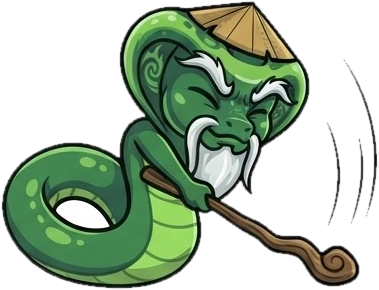
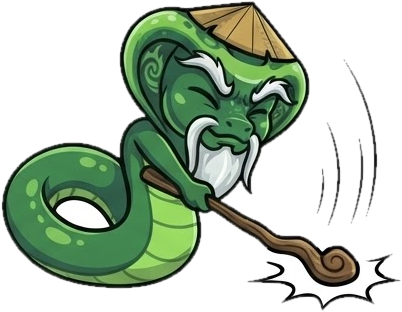
Stick scene: bring back the impact star on the wise dragon's hit pose (cutter kept it as 'text'), hold the hit a bit longer, shorter pause after the raise line

diff --git a/app/src/main/java/eu/kanade/tachiyomi/ui/reader/RReaderCobraView.kt b/app/src/main/java/eu/kanade/tachiyomi/ui/reader/RReaderCobraView.kt
@@ -513,8 +513,8 @@ class RReaderCobraView(
 
         private val SCENE = listOf(
             Step(R.drawable.r_stick_wise_walk, "إنت تاني؟! تلات مرات في دقيقة! مفيش أدب!", 900),
-            Step(R.drawable.r_stick_wise_raise, "نصيحة من الحاج: اللي ما يسمعش الكلام... يتضرب!", 600, 1),
-            Step(R.drawable.r_stick_wise_hit, "", 450, 2),
+            Step(R.drawable.r_stick_wise_raise, "نصيحة من الحاج: اللي ما يسمعش الكلام... يتضرب!", 300, 1),
+            Step(R.drawable.r_stick_wise_hit, "", 850, 2),
             Step(R.drawable.r_stick_small_hit, "آآآي! دماغي!", 900),
             Step(R.drawable.r_stick_wise_walk_with_small, "يلا معايا. ونصيحة تانية: اشرب مية.", 700),
         )

diff --git a/branding/tools/make_small_dragon_fullbody.py b/branding/tools/make_small_dragon_fullbody.py
@@ -5,13 +5,29 @@ from PIL import Image, ImageFilter
 import numpy as np, colorsys
 from scipy import ndimage as ndi
 
-def segment(path, merge_dil=12, min_area=20000):
+def mx_dark(a):
+    return a.max(axis=2) < 90
+
+def _box(shape, k):
+    m = np.zeros(shape[:2], bool); m[k[1]:k[3], k[0]:k[2]] = True; return m
+
+def segment(path, merge_dil=12, min_area=20000, keep=()):
+    # keep: boxes (x0,y0,x1,y1) in sheet pixels whose components are artwork, never labels (e.g. the impact star)
     im=Image.open(path).convert('RGB')
     a=np.array(im).astype(int)
     white=(a[:,:,0]>225)&(a[:,:,1]>225)&(a[:,:,2]>225)
     lab,_=ndi.label(white)
     border=set(np.unique(np.concatenate([lab[0,:],lab[-1,:],lab[:,0],lab[:,-1]])))-{0}
     bg=np.isin(lab,list(border)); fg=~bg
+    # the impact star's white inside is open to the page, so it was cut away: close and fill its outline
+    for k in keep:
+        dk, nd = ndi.label(mx_dark(a) & _box(a.shape, k))
+        star = np.zeros(dk.shape, bool)
+        for j, sl in enumerate(ndi.find_objects(dk), 1):  # only the wide outline piece, not the stick tip / motion lines
+            if sl[1].stop - sl[1].start > 100 and (dk[sl] == j).sum() > 300:
+                star |= dk == j
+        closed = ndi.binary_closing(np.pad(star, 12), structure=np.ones((3, 3)), iterations=7)[12:-12, 12:-12]
+        fg = fg | (ndi.binary_fill_holes(closed) & _box(a.shape, k))
     # 1) remove the Arabic/English labels: dark, unsaturated, small components
     l1,n1=ndi.label(ndi.binary_dilation(fg,iterations=3))
     mx=a.max(axis=2); mn=a.min(axis=2); sat=(mx-mn)/np.maximum(mx,1)
@@ -22,6 +38,8 @@ def segment(path, merge_dil=12, min_area=20000):
         if area==0: continue
         ys,xs=sl; h=ys.stop-ys.start; w=xs.stop-xs.start
         if area<9000 and sat[m].mean()<0.25 and mx[m].mean()<110 and h<90:
+            if any(xs.start<k[2] and xs.stop>k[0] and ys.start<k[3] and ys.stop>k[1] for k in keep):
+                continue
             text|=m
     fg2=fg&~ndi.binary_dilation(text,iterations=2)
     # 2) merge each pose with its floating decorations
@@ -58,6 +76,8 @@ SHEETS = {
 STICK = ('16-wise-dragon-stick-scene-559301.jpg',
          ['wise_walk', 'wise_raise', 'wise_hit', 'small_hit', 'small_carried', 'wise_walk_with_small'])
 # home mascot mood -> cut-out file. BACK has no back view in the new sheets: the \"shocked\" pose is used (flying away fast).
+# sheet 16: the black-outlined impact star under the wise dragon's stick looked like a label to the text filter
+STICK_KEEP = [(1150, 270, 1360, 362)]
 MOODS = {'happy': 'dragon_happy', 'blink': 'dragon_blink', 'hurt': 'stick_small_hit', 'sad': 'dragon_sad',
          'scared': 'dragon_scared', 'dizzy': 'dragon_dizzy', 'back': 'dragon_shock'}
 CANVAS, SCALE, MARGIN = 384, 1.18, 8
@@ -66,7 +86,7 @@ def run():
     os.makedirs(OUT, exist_ok=True)
     jobs = [(f, n, 'dragon_') for f, n in SHEETS.items()] + [(STICK[0], STICK[1], 'stick_')]
     for f, names, prefix in jobs:
-        im, a, fg2, l2, blobs = segment(BASE + f)
+        im, a, fg2, l2, blobs = segment(BASE + f, keep=STICK_KEEP if prefix == 'stick_' else ())
         ob = order(blobs)
         assert len(ob) == len(names), (f, len(ob))
         for b, n in zip(ob, names):
